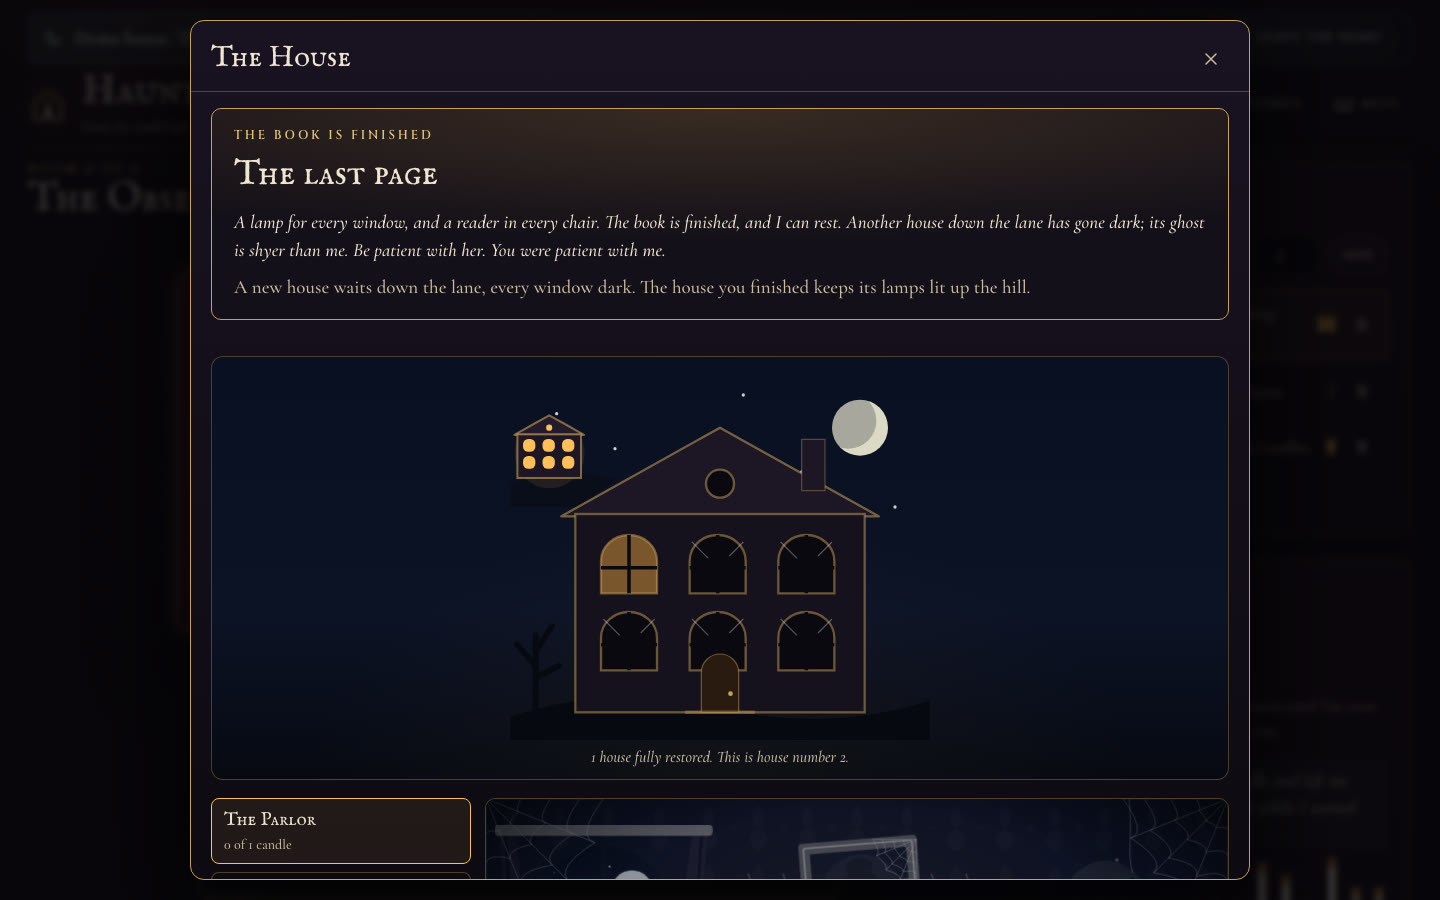
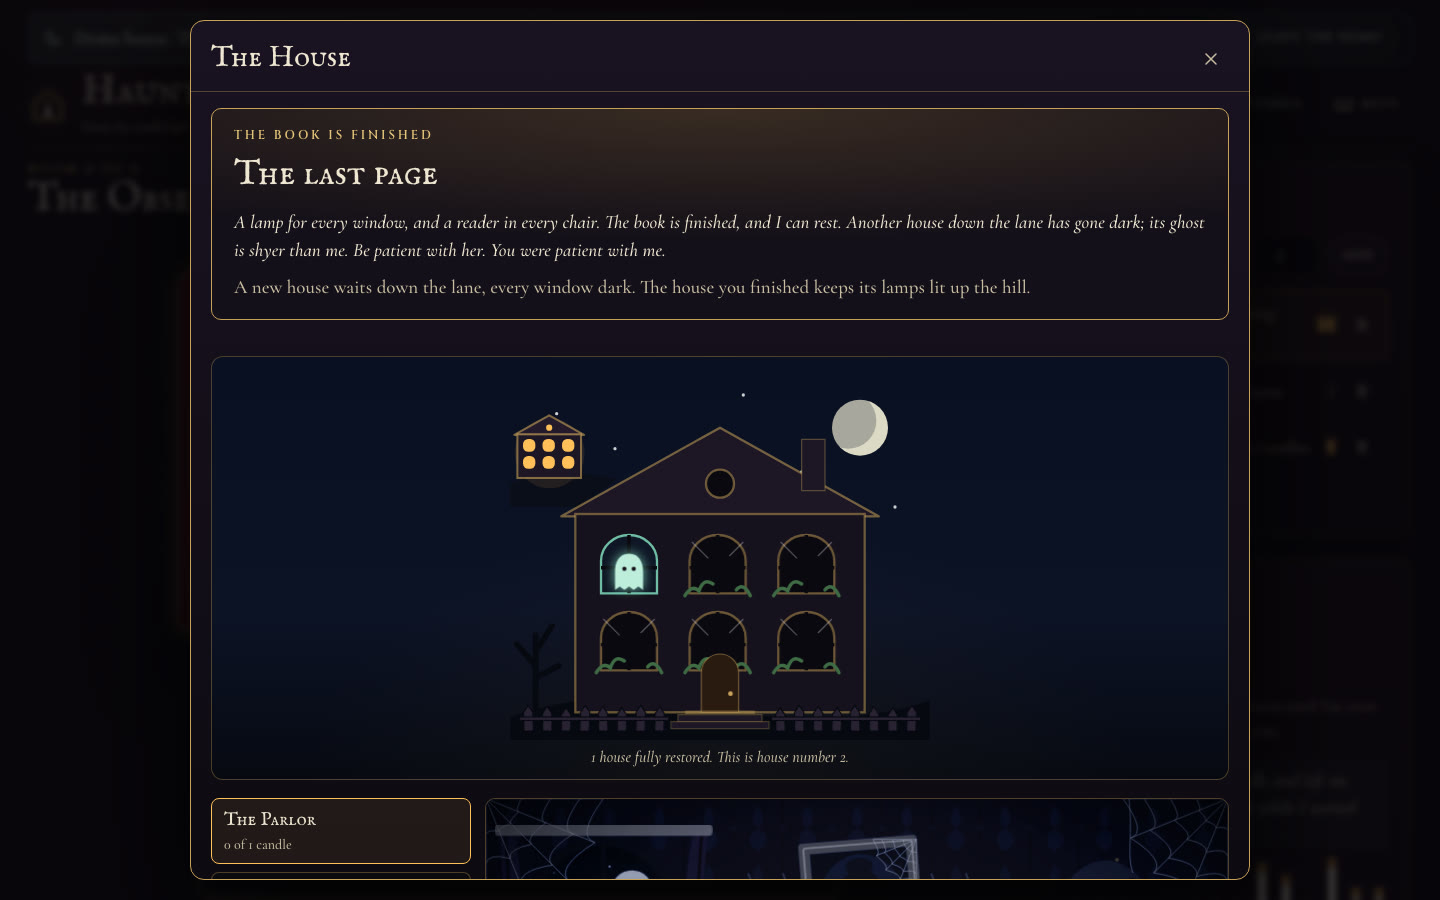
Re-record the media in moonlight and steady the media script
The README GIF, screenshots and link-preview image now show the
moonlit haunted room and the new house map.

The media script saved its stills under the same name as the film's
restored frame, so the link-preview image was cut from a full-window
still instead of the stage. Stills now get their own names. Both
restored frames are also taken early in the 10-second break, so a
busy machine cannot carry them into the next room.

diff --git a/CHANGELOG.md b/CHANGELOG.md
@@ -1,7 +1,7 @@
 # Changelog
 
 ## Unreleased
-- **Moonlight and a lived-in house map.** The haunted parlor now reads as cold moonlight rather than sepia (no sepia, more contrast, a stronger blue cast and moon shaft, brighter cobwebs). On the house map, the room being restored shows the ghost in its window instead of a dim amber fill that looked lit, haunted windows gather ivy, restored rooms spill warm light onto the ground, and the house gains porch steps and a picket fence.
+- **Moonlight and a lived-in house map.** The haunted parlor now reads as cold moonlight rather than sepia (no sepia, more contrast, a stronger blue cast and moon shaft, brighter cobwebs). On the house map, the room being restored shows the ghost in its window instead of a dim amber fill that looked lit, haunted windows gather ivy, restored rooms spill warm light onto the ground, and the house gains porch steps and a picket fence. The README media is re-recorded to match, and `npm run media` now cuts the link-preview image from the restored stage rather than a full-window still, and catches both restored frames early in the break so a busy machine cannot carry them into the next room.
 - **Fresh media.** `npm run media` now records the README stills too (haunted, the ghost after a wandering, restored, costume off and the finale) alongside the hero GIF, which now includes the wander-and-return beat, and the link-preview image.
 - **README for a first-time reader.** A 60-second path for judges, what sets the timer apart, the lead audience first, "Built with Kiro" as a table of what each piece actually did, a "Why now" and a unit-economics line with sources. Build, test and architecture notes moved to `docs/DEVELOPING.md`.
 - **The finale demo.** `?demo=finale` opens the demo house on its last dark room. One 20-second session restores the Observatory, the ghost finishes her book, and the house map opens on the last page with a new, dark house down the lane and the finished one lit up the hill.
